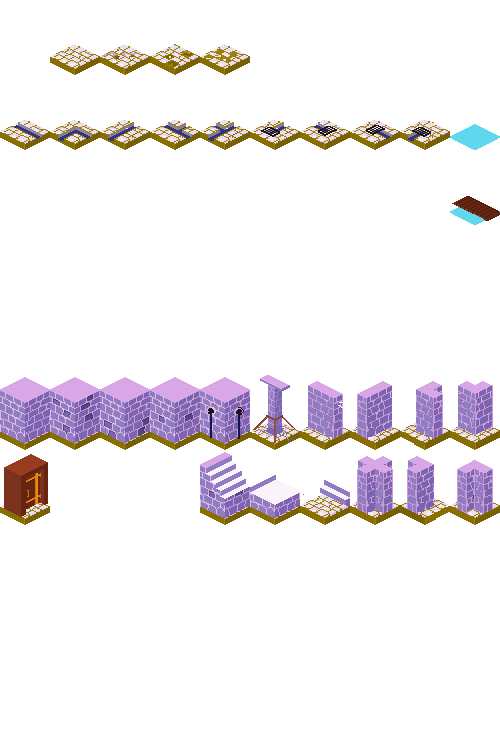
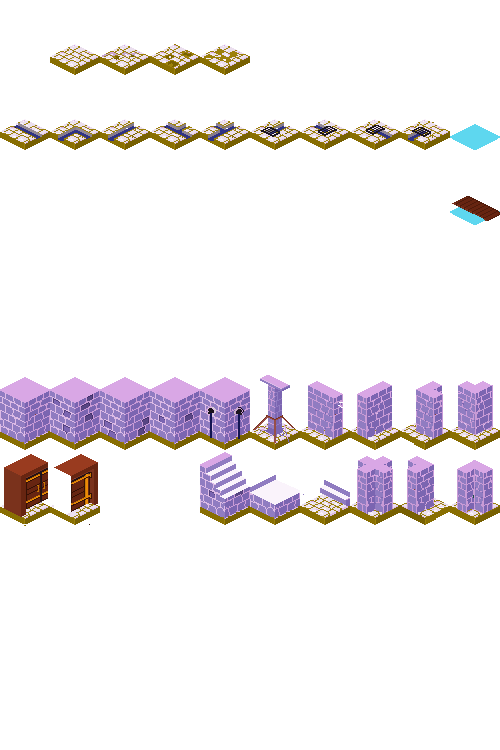
Added door and key

Changed region(s): [[0.03, 0.5827, 0.21, 0.7053]]

diff --git a/js/world/world.js b/js/world/world.js
@@ -83,13 +83,13 @@ var levelOne = [
 				52, 64, 65,  1,  1,  1,  1,  1,  1,  1,  1,  1, 17, 13, 10, 16,  1,  1,  1, 52,
 				52,  1, 66,  1,  1,  1,  1,  1,  1,  1,  1,  1,  1,  1,  1,  1,  1,  1,  1, 52,
 			    52,  1,  1,  1,  1,  1,  1,  1,  1,  1,  1,  1,  1,  1,  2,  1,  1,  1,  1, 52,
-				52,  1,  1,  1,  1,  1,  1,  1,  3,  1,  1,  1,  1,102,  1,  1,  1,  1,  1, 52,
+				52,  1,  1,  1,  1,  1,  1,  1,  3,  1,  1,  1,  1,102,  1,  1,156,  1,  1, 52,
 				52, 18,  1,  1,  1,  1,  1,  1,  1,  1,  1,  1,  1,  1,  1,  4,  1,  1,  1, 52,
 				54, 14,  1,  1,  1,111,  1,  2,  4,  1,  1,  1,  1,  1,  3,  4,  1,  1,  1, 52,
 				52, 12,  1,  1,  1,  1,  1,  1,  2,  4,  1,  1,  1,  1,  1,  1,  1,  1,  1, 52,
 				52, 12,  1,  1,  1,  1,  2,  1,  1,  1,  1,  1,  1,  1,  1,110,  1,  1,  1, 52,
-				52, 12,  1,  1,  1,  1,  1,  1,  1,  1,  1,  1,  1,  1,  1,  1,  1,  1,  1,  1,
-				52, 12,  1,  4,  1,  2,  1,  1,  1,100,  1,  1,  1,  1,  1,  2,  3,  1,  1,  1,
+				52, 12,  1,  1,  1,  1,  1,  1,  1,  1,  1,  1,  1,  1,  1,  1,  1,  1,  1, 61,
+				52, 12,  1,  4,  1,  2,  1,  1,  1,100,  1,  1,  1,  1,  1,  2,  3,  1,  1, 60,
 				52, 12,  1,  3,  1,  1,  1,  1, 57,  1,  1,  1,  1,  1,  1,  2,  2,  1,  1, 52,
 				52, 12,  1,  1,  3,  1,  1,  1, 57,  1,  1,  1,  1,  1,  1,  1,  1,  1,  1, 52,
 				52, 12,  1,  1,  1,  1,  2,  1, 57,  1,  1,  1,  1,  1,  1,  1,  1,  1,  1, 52,
@@ -277,6 +277,7 @@ var levelText = 	["You suddenly emerge into the dimly lit sewer, surrounded by a
 	const TILE_WALL_STONE_8 = 58;
 	const TILE_WALL_STONE_9 = 59;
 	const TILE_WOODEN_DOOR_1 = 60;
+	const TILE_WOODEN_DOOR_2 = 61;
 	const TILE_STAIRWAY_1 = 64;
 	const TILE_STAIRWAY_2 = 65;
 	const TILE_STAIRWAY_3 = 66;
@@ -297,6 +298,7 @@ var levelText = 	["You suddenly emerge into the dimly lit sewer, surrounded by a
 	const TILE_POTION_LEVITATION = 153;
 	const TILE_SPELL_BOOK = 154;
 	const TILE_SPELL_BOOK_2 = 155;
+	const TILE_KEY = 156;
 
     const NAVMODE_IMPASSIBLE = 0;
 	const NAVMODE_WALKABLE = 1;
@@ -309,7 +311,7 @@ var levelText = 	["You suddenly emerge into the dimly lit sewer, surrounded by a
 		{navMode: NAVMODE_IMPASSIBLE, tileTypes: [TILE_WALL_STONE_1, TILE_WALL_STONE_2, TILE_WALL_STONE_3, TILE_WALL_STONE_4, TILE_WALL_STONE_5, TILE_COLUMN_STONE_1, TILE_WALL_STONE_6, TILE_WALL_STONE_7, TILE_WALL_STONE_8]},
 		{navMode: NAVMODE_WALKABLE, tileTypes: [TILE_FLOOR_SEWER_1, TILE_FLOOR_SEWER_2, TILE_FLOOR_SEWER_3, TILE_FLOOR_SEWER_4, TILE_FLOOR_SEWER_5, TILE_FLOOR_SEWER_6, TILE_FLOOR_SEWER_7, TILE_FLOOR_SEWER_8, TILE_FLOOR_SEWER_9, TILE_FLOOR_STONE_1, TILE_FLOOR_STONE_2, TILE_FLOOR_STONE_3, TILE_FLOOR_STONE_4, TILE_BRIDGE_1]},
 		{navMode: NAVMODE_FLYABLE, tileTypes: [TILE_WATER]},
-		{navMode: NAVMODE_LOCKED, tileTypes: [TILE_WOODEN_DOOR_1]},
+		{navMode: NAVMODE_LOCKED, tileTypes: [TILE_WOODEN_DOOR_1, TILE_WOODEN_DOOR_2]},
 	];
 
 	function tileTypeNavMode(tiletype){

diff --git a/js/main.js b/js/main.js
@@ -155,7 +155,8 @@ function loadLevel(whichLevel) {
 			roomGrid[i] == TILE_POTION_LEVITATION ||
 			roomGrid[i] == TILE_POTION_STAMINA ||
 			roomGrid[i] == TILE_SPELL_BOOK ||
-			roomGrid[i] == TILE_SPELL_BOOK_2){
+			roomGrid[i] == TILE_SPELL_BOOK_2 ||
+			roomGrid[i] == TILE_KEY){
 			
 			let whichPotion = roomGrid[i];
 			if(roomGrid[i] == TILE_POTION_MANA){
@@ -170,6 +171,8 @@ function loadLevel(whichLevel) {
 				whichPotion = "Spell Book";
 			} else if (roomGrid[i] == TILE_SPELL_BOOK_2){
 				whichPotion = "Spell Book 2";
+			} else if (roomGrid[i] == TILE_KEY){
+				whichPotion = "Key";
 			} else {
 				whichPotion = "Not listed";
 			}
@@ -205,6 +208,8 @@ function loadLevel(whichLevel) {
 			potionList[i].init(spellBookPic, 300, "Spell Book", TILE_SPELL_BOOK);
 		} else if (potionList[i].myName == "Spell Book 2"){
 			potionList[i].init(spellBookPic, 375, "Spell Book 2", TILE_SPELL_BOOK_2);
+		} else if (potionList[i].myName == "Key"){
+			potionList[i].init(keyTilesPic, 450, "Key", TILE_KEY);
 		}
 	}
 	turnNumber = 0;

diff --git a/js/utilities/ImageLoading.js b/js/utilities/ImageLoading.js
@@ -32,6 +32,7 @@ var arrowPic = document.createElement("img");
 var worldTilesPic = document.createElement("img");
 var arrowButtonPic = document.createElement("img");
 var emptyPlayerPic = document.createElement("img");
+var keyTilesPic = document.createElement("img");
 
 var trackPics = [];
 
@@ -71,6 +72,7 @@ function loadImages() {
 			{varName: spellBookPic, theFile:  "potionTiles.png", sx: 0, sy: 0},
 			{varName: spellBook2Pic, theFile:  "potionTiles.png", sx: 0, sy: 0},
 			{varName: spellFirePic, theFile: "spellFire.png",sx: 0, sy: 0},
+			{varName: keyTilesPic, theFile: "potionTiles.png",sx: 0, sy: 0},
 			//spells and attacks
 			{varName: fireBoltPic, theFile: "fireBolt.png",sx: 0, sy: 0},
 			{varName: arrowPic, theFile: "arrow.png",sx: 0, sy: 0},

diff --git a/js/potions.js b/js/potions.js
@@ -21,6 +21,7 @@ function potionClass(potionType) {
 	this.healingPotion = 0;
 	this.staminaPotion = 0;
 	this.levitationPotion = 0;
+	this.key = 0;
 
 		
 	this.reset = function() {
@@ -60,6 +61,8 @@ function potionClass(potionType) {
 			
 		} else if (this.myName == "Spell Book 2"){
 			
+		} else if (this.myName == "Key"){
+			this.key++;
 		}
 
 		this.reset();
